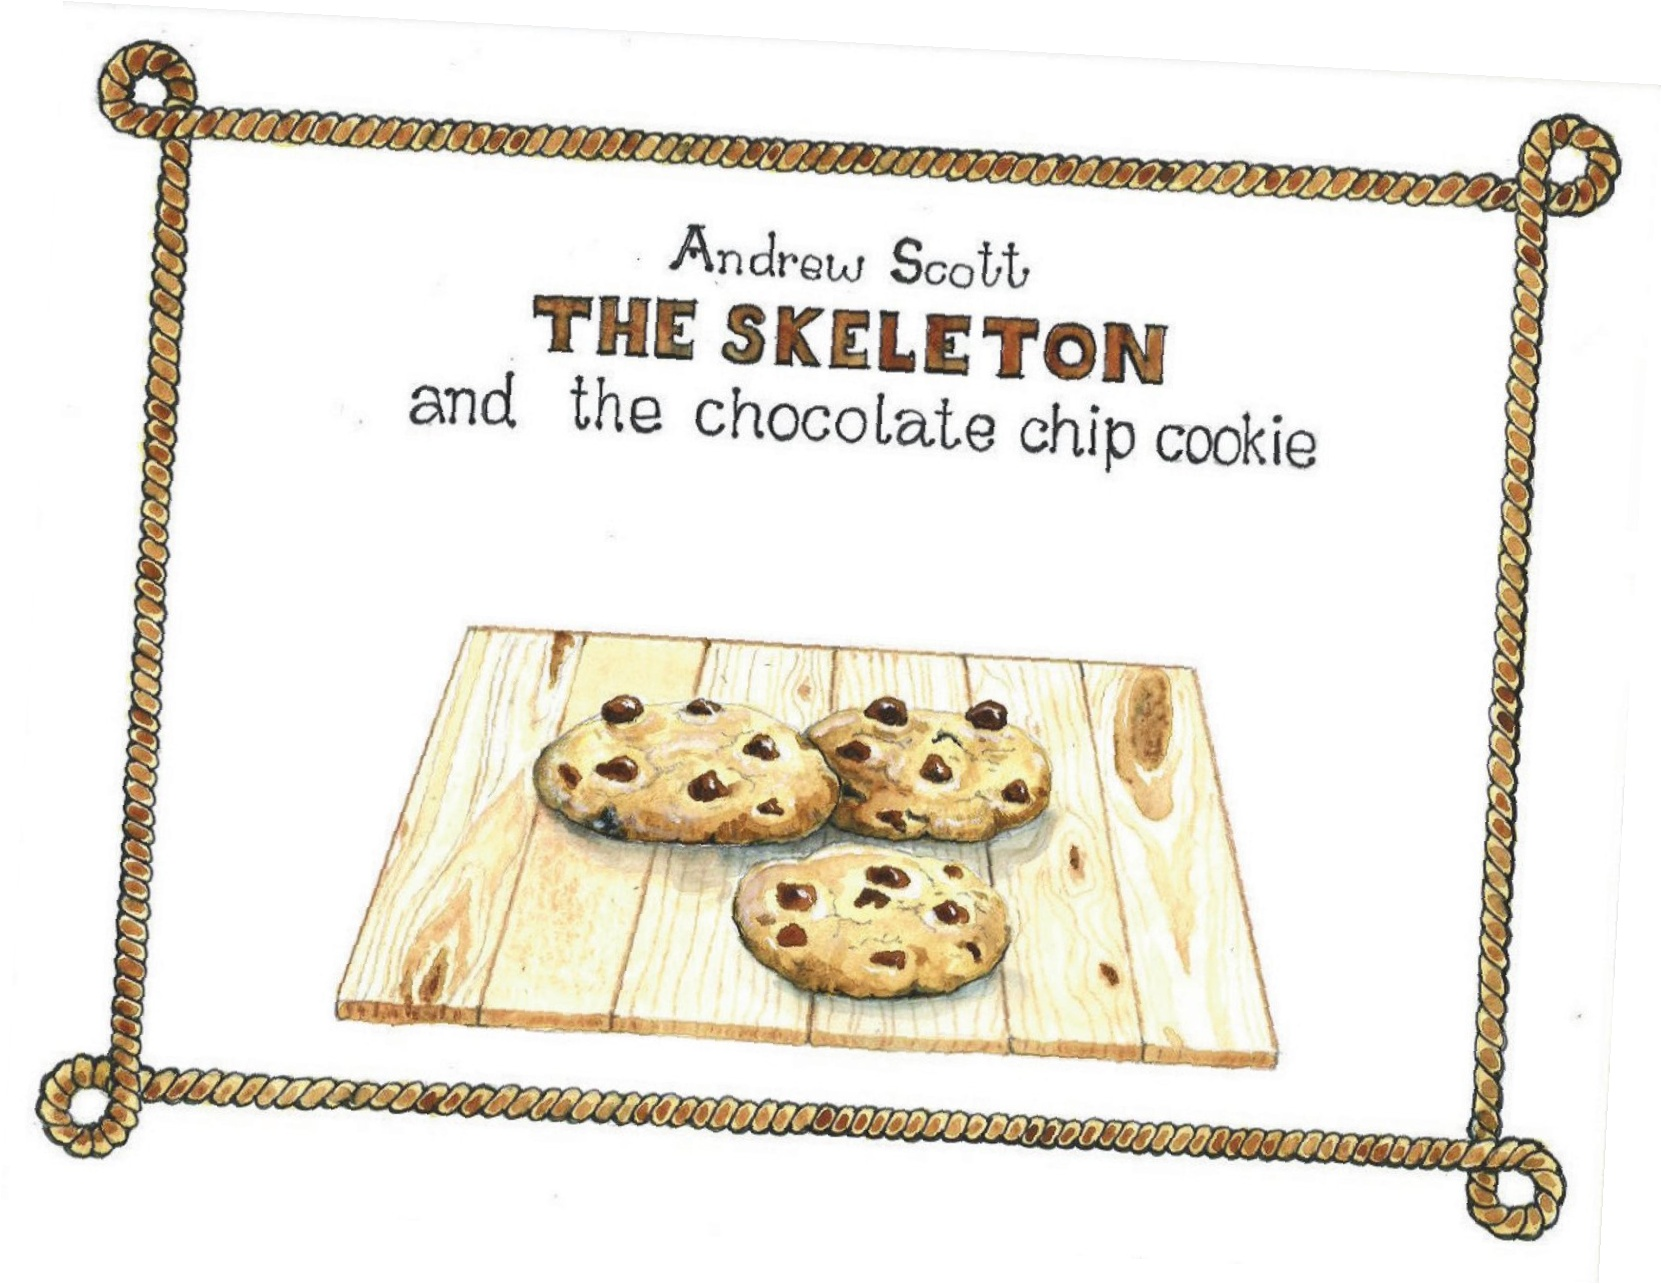
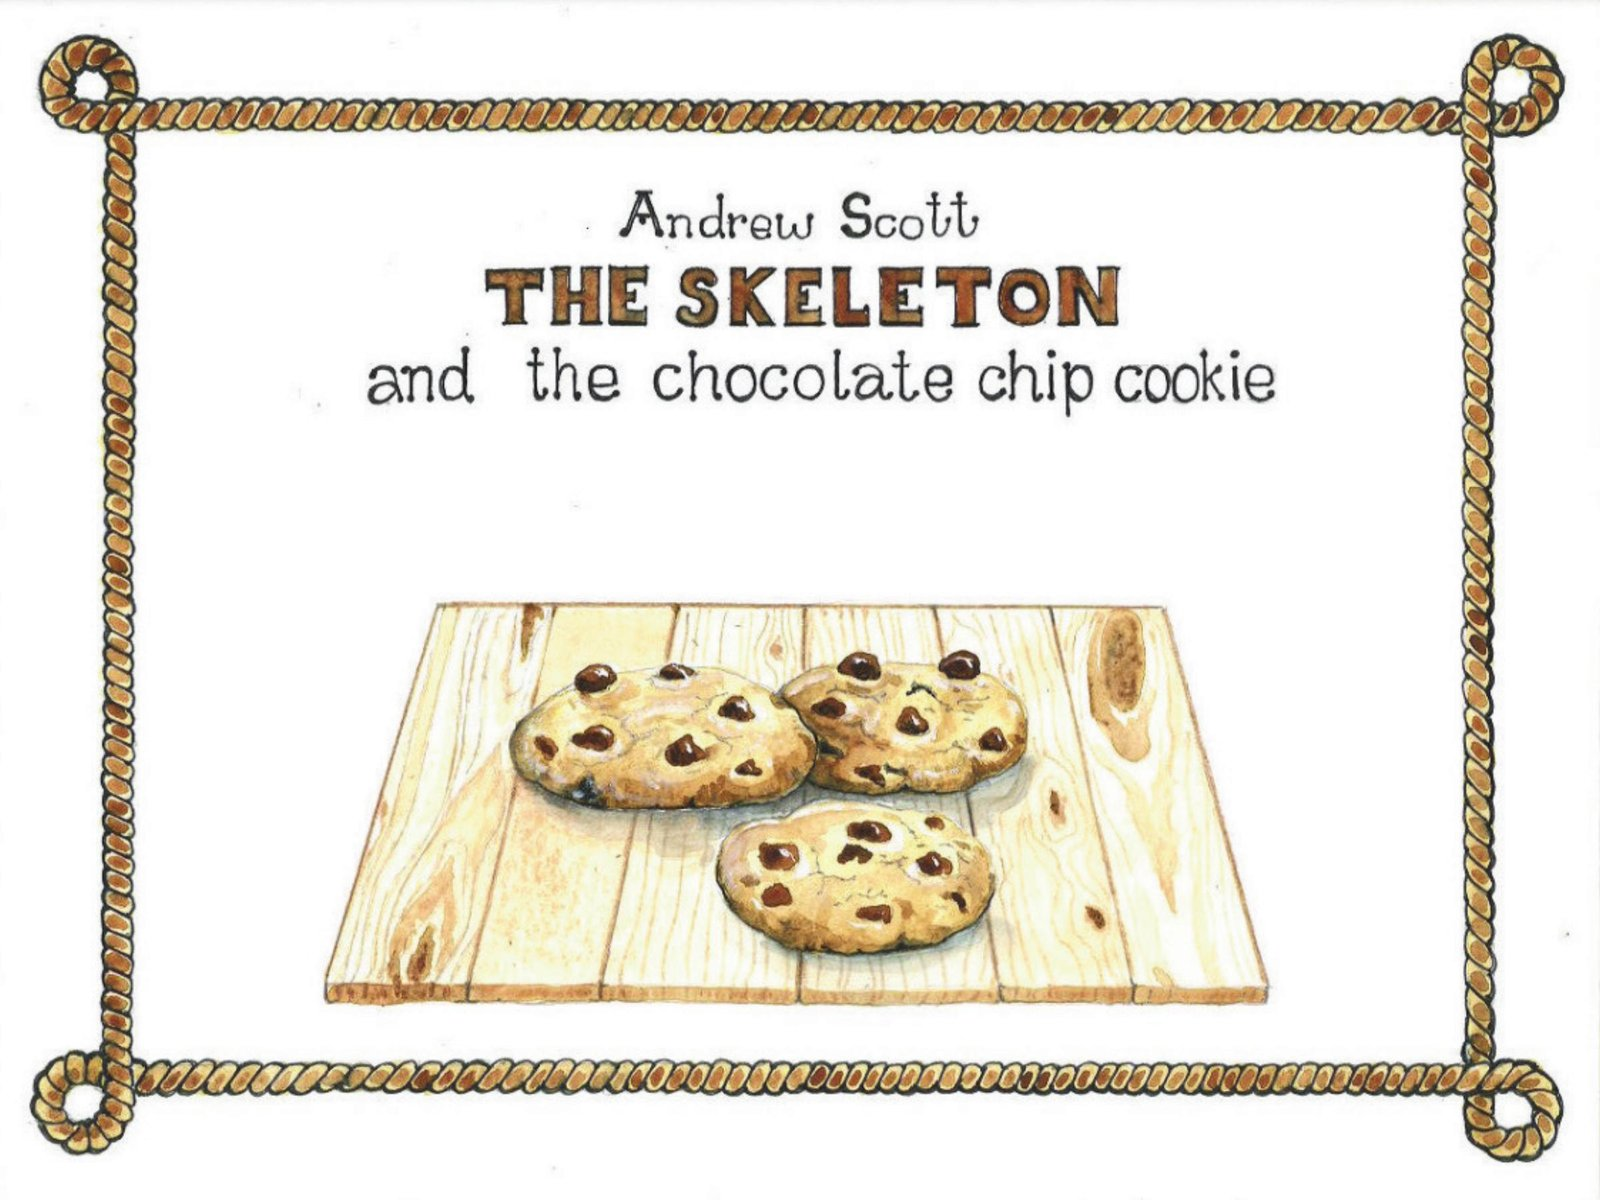
Straighten hero cover + full SEO/metadata pass
- Remove CSS -1.5deg rotation on hero cover (was 'crooked until hover'); kept subtle hover scale
- Re-render page-01.jpg + cover-1000.jpg cleanly from source PDF (undoes earlier PIL rotation)
- Add proper favicon set (32/192/512 PNG + apple-touch-icon)
- Open Graph: og:url, site_name, locale, image dimensions + alt, book:author/release_date
- Twitter card (summary_large_image) with title/desc/image
- Canonical URL, author meta, keywords meta, theme-color #c8531a
- JSON-LD Book schema with PreOrder offer, free US shipping, ages 3-8
- sitemap.xml lastmod

diff --git a/public/index.html b/public/index.html
@@ -3,17 +3,96 @@
 <head>
 <meta charset="utf-8">
 <meta name="viewport" content="width=device-width, initial-scale=1">
+<meta name="theme-color" content="#c8531a">
+<meta name="color-scheme" content="light">
+
 <title>The Skeleton and the Chocolate Chip Cookie — A Halloween Picture Book by Andrew Scott</title>
-<meta name="description" content="A hand-painted watercolor Halloween picture book written by Andrew Scott for his daughter and illustrated by her grandmother. Preorder a signed hardcover — $29.99, free US shipping.">
+<meta name="description" content="A hand-painted watercolor Halloween picture book written by Andrew Scott for his daughter Vitalina and illustrated by her grandmother. Preorder a signed hardcover — $29.99, free US shipping. Ages 3–8.">
+<meta name="author" content="Andrew Scott">
+<meta name="keywords" content="children's picture book, halloween picture book, skeleton, chocolate chip cookie, ages 3-8, preorder, signed hardcover, Andrew Scott, V. Khromatidi, watercolor children's book, bedtime story">
+<link rel="canonical" href="https://theskeletonbook.com/">
+
+<!-- Open Graph (Facebook, Signal, iMessage, etc.) -->
 <meta property="og:title" content="The Skeleton and the Chocolate Chip Cookie">
 <meta property="og:description" content="A Halloween picture book written by a father for his daughter, illustrated in watercolor by her grandmother. Preorder a signed hardcover — $29.99, free US shipping.">
 <meta property="og:type" content="book">
-<meta property="og:image" content="/images/page-01.jpg">
+<meta property="og:url" content="https://theskeletonbook.com/">
+<meta property="og:site_name" content="The Skeleton and the Chocolate Chip Cookie">
+<meta property="og:locale" content="en_US">
+<meta property="og:image" content="https://theskeletonbook.com/images/page-01.jpg">
+<meta property="og:image:width" content="1600">
+<meta property="og:image:height" content="1200">
+<meta property="og:image:alt" content="The Skeleton and the Chocolate Chip Cookie — book cover with hand-painted chocolate chip cookies on a wooden tray, rope border, by Andrew Scott">
+<meta property="book:author" content="Andrew Scott">
+<meta property="book:release_date" content="2026">
+
+<!-- Twitter / X -->
+<meta name="twitter:card" content="summary_large_image">
+<meta name="twitter:title" content="The Skeleton and the Chocolate Chip Cookie">
+<meta name="twitter:description" content="A Halloween picture book by Andrew Scott, illustrated by Vitalina's grandmother. Preorder a signed hardcover — $29.99, free US shipping.">
+<meta name="twitter:image" content="https://theskeletonbook.com/images/page-01.jpg">
+<meta name="twitter:image:alt" content="The Skeleton and the Chocolate Chip Cookie — watercolor book cover by Andrew Scott">
+
+<!-- Favicon set -->
+<link rel="icon" type="image/png" sizes="32x32" href="/images/favicon-32.png">
+<link rel="icon" type="image/png" sizes="192x192" href="/images/favicon-192.png">
+<link rel="icon" type="image/png" sizes="512x512" href="/images/favicon-512.png">
+<link rel="apple-touch-icon" sizes="180x180" href="/images/apple-touch-icon.png">
+
+<!-- Fonts + styles -->
 <link rel="preconnect" href="https://fonts.googleapis.com">
 <link rel="preconnect" href="https://fonts.gstatic.com" crossorigin>
 <link href="https://fonts.googleapis.com/css2?family=IM+Fell+English:ital@0;1&family=IM+Fell+English+SC&family=Caveat+Brush&display=swap" rel="stylesheet">
 <link rel="stylesheet" href="/style.css">
-<link rel="icon" type="image/png" href="/images/page-01.jpg">
+
+<!-- Structured data: Book + Offer (for Google Knowledge Panel and rich results) -->
+<script type="application/ld+json">
+{
+  "@context": "https://schema.org",
+  "@type": "Book",
+  "name": "The Skeleton and the Chocolate Chip Cookie",
+  "author": {
+    "@type": "Person",
+    "name": "Andrew Scott"
+  },
+  "illustrator": {
+    "@type": "Person",
+    "name": "V. Khromatidi"
+  },
+  "image": "https://theskeletonbook.com/images/page-01.jpg",
+  "url": "https://theskeletonbook.com/",
+  "bookFormat": "https://schema.org/Hardcover",
+  "inLanguage": "en",
+  "genre": ["Children's picture book", "Halloween", "Bedtime story"],
+  "numberOfPages": 27,
+  "audience": {
+    "@type": "PeopleAudience",
+    "suggestedMinAge": 3,
+    "suggestedMaxAge": 8
+  },
+  "description": "A hungry skeleton wants a chocolate chip cookie from a witch's windowsill on Halloween night. A mummy slides under the door. A vampire turns into a bat. A ghost passes through the wall. But the skeleton finds an even better way — he knocks and asks politely. A gentle Halloween picture book for ages 3–8.",
+  "offers": {
+    "@type": "Offer",
+    "price": "29.99",
+    "priceCurrency": "USD",
+    "availability": "https://schema.org/PreOrder",
+    "url": "https://theskeletonbook.com/#preorder",
+    "priceValidUntil": "2026-12-31",
+    "shippingDetails": {
+      "@type": "OfferShippingDetails",
+      "shippingRate": {
+        "@type": "MonetaryAmount",
+        "value": "0",
+        "currency": "USD"
+      },
+      "shippingDestination": {
+        "@type": "DefinedRegion",
+        "addressCountry": "US"
+      }
+    }
+  }
+}
+</script>
 </head>
 <body>
 

diff --git a/public/style.css b/public/style.css
@@ -113,10 +113,9 @@ a:hover { color: var(--pumpkin); }
 .hero-cover img {
   border-radius: 6px;
   box-shadow: var(--shadow-lg);
-  transform: rotate(-1.5deg);
-  transition: transform 0.4s ease;
+  transition: transform 0.3s ease;
 }
-.hero-cover img:hover { transform: rotate(0deg) scale(1.01); }
+.hero-cover img:hover { transform: scale(1.02); }
 .kicker {
   font-family: var(--display);
   color: var(--pumpkin);
